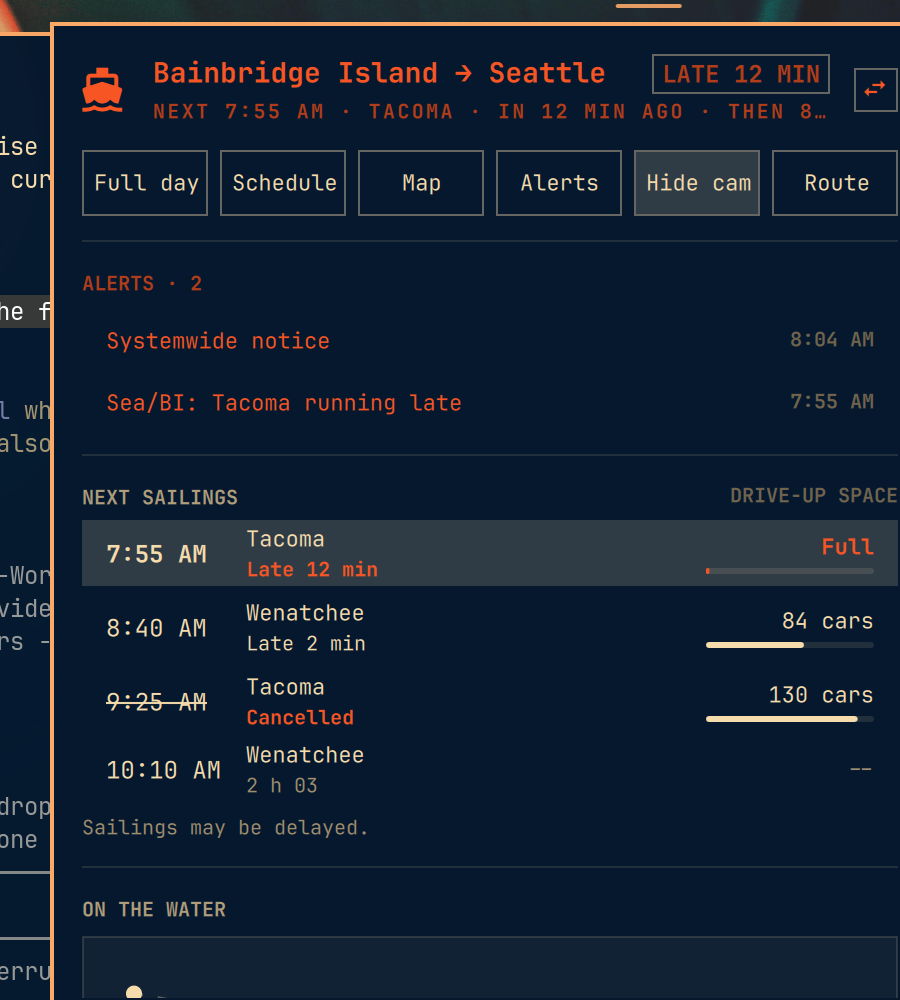
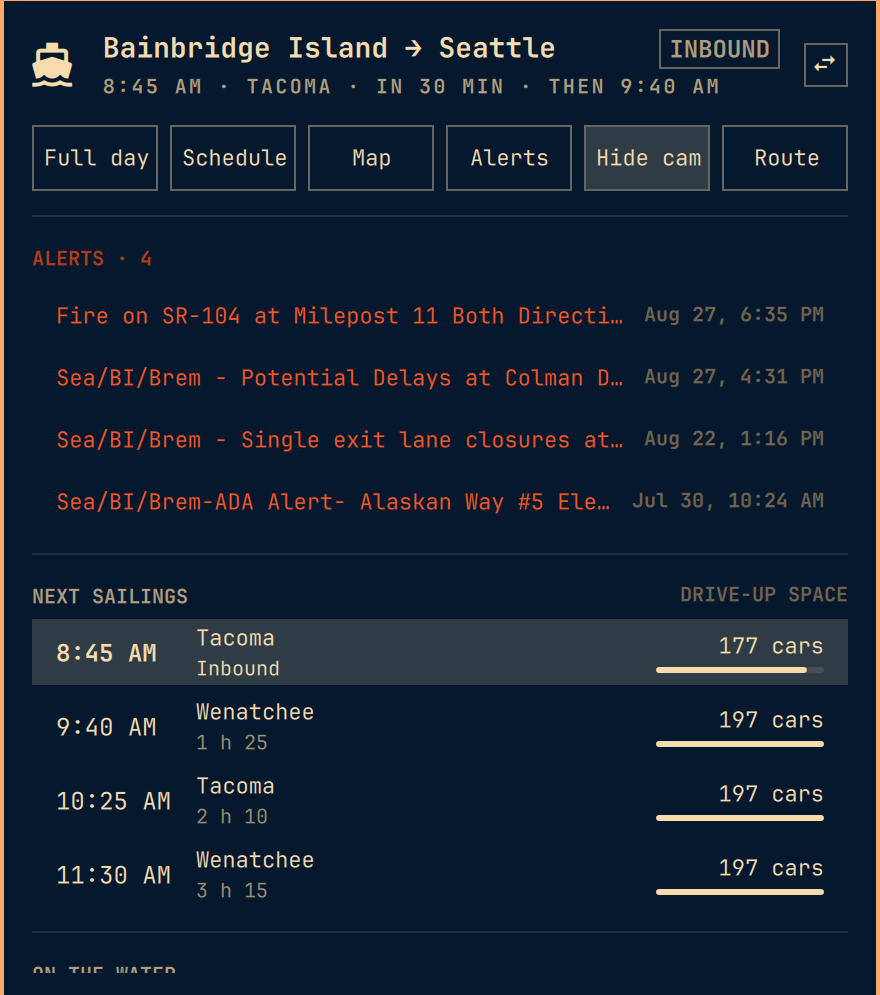
Match the live WSDOT feeds, real screenshots, one instance per bar
Verified against live data with an access code:
- A vessel is on the route when WSDOT tags it with the route abbreviation
  or both of its endpoints are ours. One shared dock is not enough:
  Seattle serves Bremerton boats too.
- VesselWatchMsg is a site-wide status line stamped on every vessel, so
  it is dropped; only a flagged per-vessel shutdown message is shown.
- The season PDF link arrives as http://; the host serves https.
- Terminal bulletins mirror route alerts; one copy is kept.
- Timestamps that are not today read as a date. Bainbridge's wait-time
  note was last touched in 2020 and used to say "12:31 PM".
- Coupeville's abbreviation is COU, not KEY.
- allowMultiple is off: route persistence goes through omarchy bar set,
  which addresses the widget by id.

Claude-Session: https://claude.ai/code/session_01MXD5Wjx4MPVyn3bAYQELuY

diff --git a/test/wsdot.test.py b/test/wsdot.test.py
@@ -52,7 +52,7 @@ def vessel(vid, name, **kw):
 def schedule(times):
     return {
         "ScheduleID": 1, "ScheduleName": "Summer", "ScheduleSeason": 2,
-        "SchedulePDFUrl": "https://wsdot.com/ferries/schedule/summer.pdf",
+        "SchedulePDFUrl": "http://www.wsdot.wa.gov/ferries/pdf/2026Summer.pdf",
         "ScheduleStart": wcf(NOW - 86400 * 30), "ScheduleEnd": wcf(NOW + 86400 * 30), "AllRoutes": [5],
         "TerminalCombos": [{
             "DepartingTerminalID": BBI, "DepartingTerminalName": "Bainbridge Island",
@@ -107,6 +107,10 @@ def write_fixtures(directory, **overrides):
                    LeftDock=wcf(NOW - 12 * 60), ScheduledDeparture=wcf(NOW - 15 * 60), Eta=wcf(NOW + 34 * 60), EtaBasis="speed",
                    Heading=275),
             vessel(99, "Elsewhere", DepartingTerminalID=8, ArrivingTerminalID=12, OpRouteAbbrev=["ed-king"]),
+            # Shares Seattle's dock with us but sails to Bremerton: not our route.
+            vessel(77, "Kaleetan", DepartingTerminalID=SEA, ArrivingTerminalID=4, OpRouteAbbrev=["sea-br"],
+                   VesselWatchShutFlag="1", VesselWatchShutMsg="Vessel information unavailable",
+                   VesselWatchMsg="VesselWatch is out of service"),
         ],
         "sailingspace-3": space([
             (NOW - 10 * 60, 68, "Tacoma", 0, False),
@@ -124,9 +128,11 @@ def write_fixtures(directory, **overrides):
         "bulletins-3": [{"TerminalID": BBI, "Bulletins": [
             {"BulletinTitle": "Parking", "BulletinText": "Lot A closed\x00\x01", "BulletinSortSeq": 2, "BulletinLastUpdated": wcf(NOW - 3600)},
             {"BulletinTitle": "Walk-on", "BulletinText": "Use the overhead walkway", "BulletinSortSeq": 1, "BulletinLastUpdated": wcf(NOW - 7200)},
+            {"BulletinTitle": "Systemwide notice", "BulletinText": "mirrored from alerts", "BulletinSortSeq": 3, "BulletinLastUpdated": wcf(NOW - 60)},
         ]}],
         "waittimes-3": [{"TerminalID": BBI, "WaitTimes": [
             {"RouteID": 5, "RouteName": "Seattle / Bainbridge", "WaitTimeNotes": "One boat wait for vehicles", "WaitTimeLastUpdated": wcf(NOW - 300)},
+            {"RouteID": None, "RouteName": None, "WaitTimeNotes": "Ancient advice", "WaitTimeLastUpdated": wcf(NOW - 86400 * 400)},
         ]}],
         "cameras": {"FeedContentList": [
             {"TerminalID": BBI, "FerryCamera": {"CamID": 9040, "Lat": 47.62, "Lon": -122.51, "Title": "WSF Bainbridge Ferry Holding",
@@ -204,7 +210,7 @@ class Document(unittest.TestCase):
         self.assertEqual(self.doc["route"]["to"]["id"], SEA)
         self.assertEqual(self.doc["route"]["links"]["schedule"], "https://wsdot.com/ferries/schedule/scheduledetailbyroute.aspx?route=sea-bi")
         self.assertEqual(self.doc["route"]["links"]["map"], "https://wsdot.com/ferries/vesselwatch/default.aspx?view=seabi")
-        self.assertEqual(self.doc["route"]["links"]["schedulePdf"], "https://wsdot.com/ferries/schedule/summer.pdf")
+        self.assertEqual(self.doc["route"]["links"]["schedulePdf"], "https://www.wsdot.wa.gov/ferries/pdf/2026Summer.pdf")
 
     def test_departures_sorted_and_labelled(self):
         labels = [d["timeLabel"] for d in self.doc["departures"]]
@@ -247,6 +253,7 @@ class Document(unittest.TestCase):
     def test_vessels_filtered_to_route(self):
         names = sorted(v["name"] for v in self.doc["vessels"])
         self.assertEqual(names, ["Tacoma", "Wenatchee"])
+        self.assertEqual([v["notice"] for v in self.doc["vessels"]], ["", ""])
         wen = [v for v in self.doc["vessels"] if v["name"] == "Wenatchee"][0]
         self.assertEqual(wen["etaLabel"], "2:34 PM")
         self.assertEqual(wen["delayMin"], 3)   # left 3 min after scheduled
@@ -265,6 +272,16 @@ class Document(unittest.TestCase):
 
     def test_wait_times(self):
         self.assertEqual(self.doc["waitTimes"][0]["notes"], "One boat wait for vehicles")
+        self.assertEqual(self.doc["waitTimes"][0]["updatedLabel"], "1:55 PM")
+
+    def test_old_timestamps_show_a_date(self):
+        zone = wsdot.local_zone("America/Los_Angeles")
+        self.assertEqual(wsdot.when_label(NOW - 300, NOW, zone), "1:55 PM")
+        self.assertEqual(wsdot.when_label(NOW - 86400, NOW, zone), "Aug 27, 2:00 PM")
+        self.assertEqual(wsdot.when_label(NOW - 86400 * 400, NOW, zone), "Jul 24, 2025")
+
+    def test_bulletins_mirroring_alerts_are_dropped(self):
+        self.assertNotIn("Systemwide notice", [b["title"] for b in self.doc["bulletins"]])
 
     def test_cameras_only_https_and_this_terminal(self):
         cams = self.doc["cameras"]

diff --git a/README.md b/README.md
@@ -10,6 +10,8 @@ without touching the panel (see [providers/README.md](providers/README.md)).
 
 ![the panel](docs/panel.png)
 
+![further down: boats, terminal, camera](docs/panel-lower.png)
+
 ## What it shows
 
 **In the bar:** a ferry icon and a countdown to the next sailing (`12m`,
@@ -174,6 +176,14 @@ node test/model.test.js        # panel logic, pure JavaScript
 python3 test/wsdot.test.py     # WSDOT provider against fixtures, offline
 bash test/run.test.sh          # output cap, dispatcher, camera allow-list
 ```
+
+## Not yet
+
+- One instance per bar. Route persistence goes through `omarchy bar set`,
+  which addresses the widget by id, so two instances would fight over one
+  setting. A per-instance key is the fix; until then, swap direction.
+- Reservations, fares and the Sidney B.C. run are shown only as far as the
+  operator's feeds carry them.
 
 ## Adding another ferry system
 
